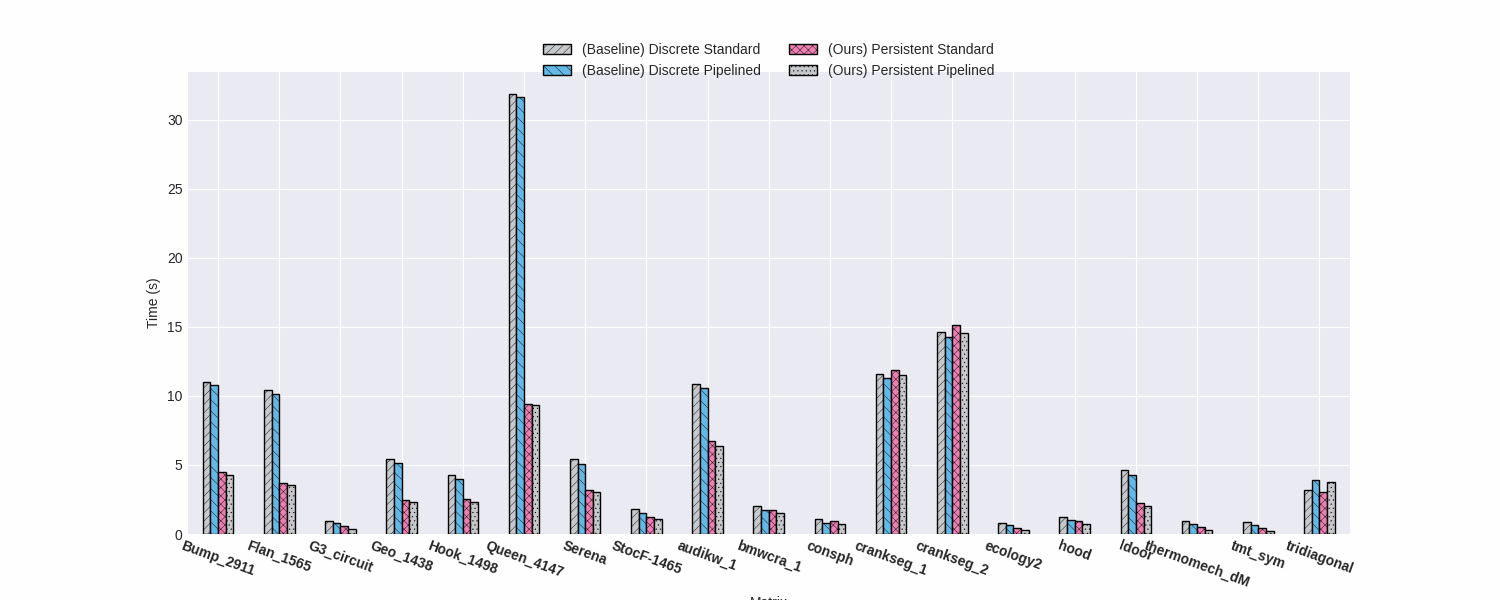
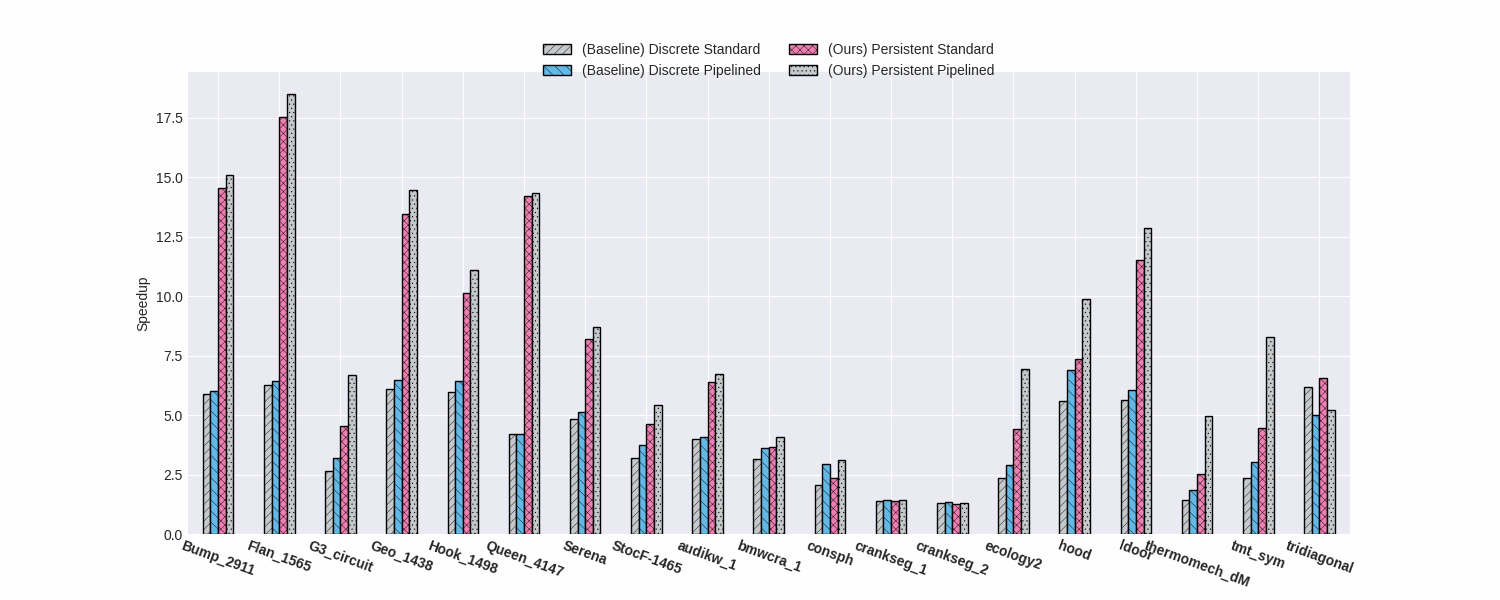
Plot speedup instead of time

diff --git a/CG/scripts/plots/plot_constant_num_gpus.py b/CG/scripts/plots/plot_constant_num_gpus.py
@@ -72,6 +72,9 @@ for file in files:
         if matrix_name not in MATRIX_NAMES:
             data.drop(matrix_name, inplace=True)
 
+    single_gpu_baseline_standard_runtimes = data.loc[data['Version']
+                                                     == '(Baseline) Discrete Standard']['1 GPU']
+
     for gpu_num_column_label in gpu_num_column_labels:
         per_gpu_num_data = data[['Version', gpu_num_column_label]]
         per_gpu_num_data = per_gpu_num_data.pivot_table(
@@ -80,18 +83,23 @@ for file in files:
         per_gpu_num_data = pd.DataFrame(
             per_gpu_num_data, columns=VERSIONS_TO_KEEP)
 
-        axes = per_gpu_num_data.plot.bar(
-            colormap='Paired', color=colors, edgecolor='black', figsize=(15, 6))
+        per_gpu_num_speedup = 1 / per_gpu_num_data.div(
+            single_gpu_baseline_standard_runtimes, axis=0)
+
+        axes = per_gpu_num_speedup.plot.bar(
+            color=colors, edgecolor='black', figsize=(15, 6))
 
         bars = axes.patches
         patterns = ('////', '\\\\\\', 'xxxx', '....')
-        hatches = [p for p in patterns for i in range(len(per_gpu_num_data))]
+        hatches = [p for p in patterns for i in range(
+            len(per_gpu_num_speedup))]
 
         for bar, hatch in zip(bars, hatches):
             bar.set_hatch(hatch)
 
-        axes.set_ylabel('Time (s)')
-        axes.set_title('Execution time per matrix')
+        axes.set_ylabel('Speedup')
+        axes.set_xlabel(None)
+        axes.set_title(f'Speedup per matrix on {gpu_num_column_label}')
         axes.legend()
 
         # axes.set(xlabel=None)
